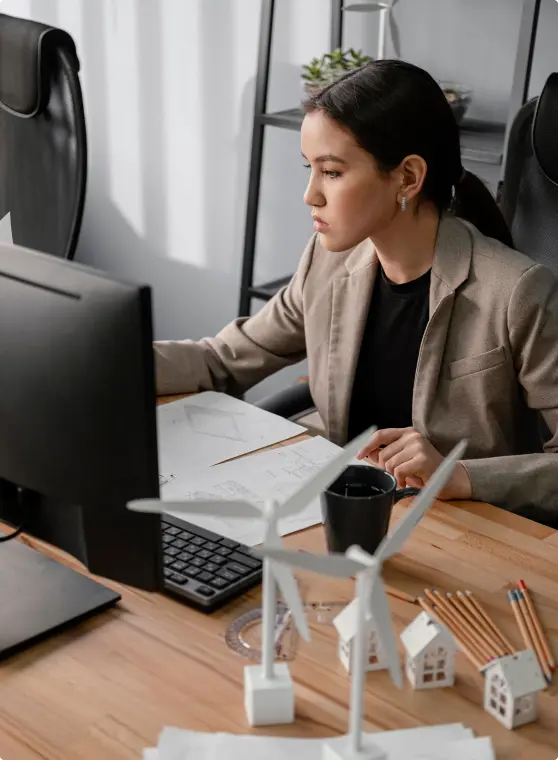
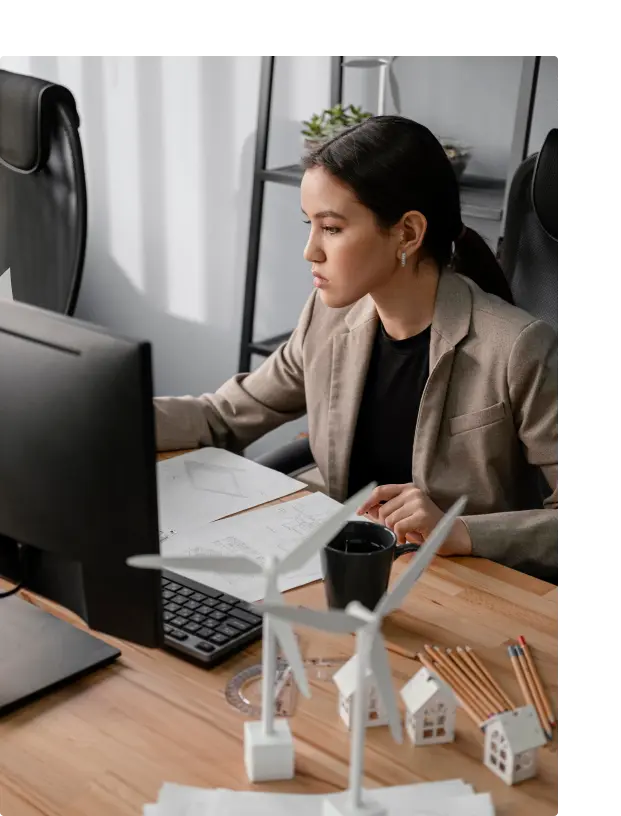
edit navbar

diff --git a/src/common/Header.jsx b/src/common/Header.jsx
@@ -29,30 +29,30 @@ const Header = () => {
 
     return (
         <div className='bg-smoky-back'>
-            <div className='flex justify-between items-center container py-4 mx-auto max-lg:px-5'>
+            <div className='flex justify-between items-center pt-4 container max-w-[1140px] mx-auto max-xl:px-5 '>    
                 <div className='items-center'>
-                    <a href="/">
+                    <a href="/" className='z-50 relative'>
                         <img src={PageLogo} alt="Page_Logo" /></a>
                 </div>
                 <button
                     onClick={handleOpen}
-                    className={`hidden size-6 justify-center relative z-50 max-lg:flex flex-col overflow-hidden`} >
+                    className={`hidden size-7 justify-center relative z-50 max-lg:flex flex-col overflow-hidden`} >
                     <span
-                        className={`w-6 transition-all duration-300 h-0.5 bg-white mb-1 rounded-md ${open ? 'translate-x-10' : ''}`}
+                        className={`w-7 transition-all duration-300 h-[3px] bg-white mb-1 rounded-md ${open ? 'translate-x-10' : ''}`}
                     ></span>
                     <span
-                        className={`w-6 transition-all duration-300 h-0.5 bg-white mb-1 rounded-md relative after:w-full after:h-full after:bg-white after:absolute after:top-0 after:left-0 after:rounded-md ${open ? 'rotate-45 after:rotate-90' : ''}`}
+                        className={`w-7 transition-all duration-300 h-[3px] bg-white mb-1 rounded-md relative after:w-full after:h-full after:bg-white after:absolute after:top-0 after:left-0 after:rounded-md ${open ? 'rotate-45 after:rotate-90' : ''}`}
                     ></span>
                     <span
-                        className={`w-6 transition-all duration-300 h-0.5 bg-white rounded-md ${open ? '-translate-x-10' : ''}`}
+                        className={`w-7 transition-all duration-300 h-[3px] bg-white rounded-md ${open ? '-translate-x-10' : ''}`}
                     ></span>
                 </button>
-                <div className={`flex gap-10 max-lg:flex-col max-lg:fixed max-lg:top-0 max-lg:w-full max-lg:h-screen max-lg:justify-center max-lg:items-center max-lg:bg-ball-blue max-lg:transition-all max-lg:duration-300 ${open ? 'max-lg:left-0' : 'left-full'}`}>
+                <div className={`flex gap-6 max-lg:flex-col max-lg:fixed max-lg:top-0 max-lg:w-full max-lg:h-screen max-lg:justify-center z-10 max-lg:items-center max-lg:bg-[#00A8E8] max-lg:transition-all max-lg:duration-300 ${open ? 'max-lg:left-0' : 'left-full'}`}>
                     {HERDER_LIST.map((data, i) => (
-                        <a onClick={closeNavbar} className='whitespace-nowrap hover:text-ferrari-red transition-all duration-300 text-blue-chalk leading-150 text-[22px] relative after:absolute after:bottom-0 after:left-0 after:w-0 after:h-[2px] after:bg-ferrari-red after:transition-all after:duration-300 hover:after:w-full after:' href={data.link} key={i}>{data.name}</a>
+                        <a onClick={closeNavbar} className='whitespace-nowrap transition-all duration-300 text-white leading-150 text-[18px] relative after:absolute after:bottom-0 after:left-0 after:w-0 after:h-[2px] max-lg:text-[22px] after:bg-ferrari-red after:transition-all after:duration-300 hover:after:w-full after:' href={data.link} key={i}>{data.name}</a>
                     )
                     )}
-                    <button className='flex lg:hidden items-center gap-1 py-3 px-[27px] font-bold text-base rounded-[0_50px_50px_20px] bg-white'>
+                    <button className='flex lg:hidden items-center gap-1 py-3 px-[27px] !text-lg font-bold text-base rounded-[0_50px_50px_20px] bg-white'>
                         Get Started
                         <ButtonArrow />
                     </button>

diff --git a/src/components/home/Hero.jsx b/src/components/home/Hero.jsx
@@ -3,21 +3,21 @@ import HeroImg from '../../assets/image/webp/hero-sec-img.webp'
 import {ButtonLogoWhite } from '../../utils/Icons'
 const Hero = () => {
   return (
-    <div className='min-h-screen bg-cover bg-no-repeat bg-center'>
+    <div className='bg-no-repeat bg-center'>
       <div className="container mx-auto max-w-[1140px] max-xl:px-5">
         <div className="flex flex-wrap items-center justify-center w-full">
-          <div className="lg:w-1/2 justify-center flex flex-col">
-            <h1 className='lg:text-[64px] md:text-5xl sm:text-4xl text-3xl text-white leading-[110%] lg:text-start text-center max-lg:max-w-[600px] max-lg:mt-10'>Easily Compare <span className='font-bold'>Energy, Gas, And Internet</span> Plans</h1>
-            <p className='text-white opacity-[90%] pt-4 pb-[42px] max-w-[506px] lg:mx-0 mx-auto lg:text-start text-center'>Find and switch to the best energy, gas, and internet plans with ease. Our platform simplifies your search, letting you compare providers and make informed decisions, all in one place.</p>
+          <div className="lg:w-1/2 justify-center flex flex-col pt-[75px]">
+            <h1 className='lg:text-[64px] md:text-5xl sm:text-4xl text-3xl text-white leading-[110%] lg:text-start text-center max-lg:max-w-[638px] max-lg:mt-10'>Easily Compare <span className='font-bold'>Energy, Gas, And Internet</span> Plans</h1>
+            <p className='text-white opacity-[90%] pt-4 pb-[42px] max-w-[630px] lg:mx-0 mx-auto lg:text-start text-center'>Find and switch to the best energy, gas, and internet plans with ease. Our platform simplifies your search, letting you compare providers and make informed decisions, all in one place.</p>
             <form>
-              <div className="bg-white py-[9px] pl-[22px] pr-[9px] flex rounded-r-[50px] rounded-bl-[50px] max-w-[476px] gap-4 lg:mx-0 mx-auto">
+              <div className="bg-white py-[9px] pl-[22px] pr-[9px] flex rounded-r-[50px] rounded-bl-[20px] max-w-[476px] gap-4 lg:mx-0 mx-auto">
                 <input className='w-full outline-none text-[#7F8A8E]' type="email" placeholder='Start typing your address ' required />
                 <button className='bg-[#00A8E8] text-white flex px-5 py-3 rounded-r-[50px] rounded-bl-[50px]'>Compare <ButtonLogoWhite/> </button>
               </div>
             </form>
           </div>
-          <div className="lg:w-1/2 items-center justify-center flex flex-col">
-            <img className='max-w-[558px] w-full translate-y-[100px]' src={HeroImg} alt="hero img" />
+          <div className="lg:w-1/2 items-center relative justify-center flex flex-col">
+            <img className='max-w-[621px] py-10 w-full lg:translate-y-[100px]' src={HeroImg} alt="hero img" />
           </div>
         </div>
       </div>

diff --git a/src/App.js b/src/App.js
@@ -5,7 +5,7 @@ import heroBg from './assets/image/webp/hero-bg.webp';
 
 function App() {
   return (
-    <div className="!bg-no-repeat bg-cover bg-center min-h-screen"
+    <div className="!bg-no-repeat bg-center max-xl:bg-cover"
       style={{ backgroundImage: `url(${heroBg})` }}>
       <Header />
       <Hero />
